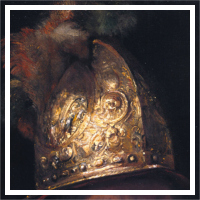
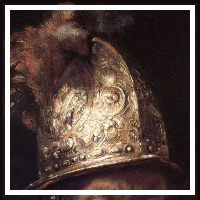
change image and mention image source for cropped
'Man with Golden Helmet', public domain photo from Wikimedia Commons.

diff --git a/blog/about.md b/blog/about.md
@@ -18,3 +18,10 @@ The theme you see is based on the default base Jekyll theme
 {% include icon-github.html username="jglovier" %} /
 [jekyll-new](https://github.com/jglovier/jekyll-new)
 
+## Image source for header photo
+
+Original photograph by [Hajotthu](https://commons.wikimedia.org/wiki/User:Hajotthu) freely [available here (link)](https://commons.wikimedia.org/wiki/File:Mann_mit_dem_Goldhelm.jpg) in [Wikimedia Commons](https://commons.wikimedia.org/wiki/Commons:Welcome).
+
+
+
+
